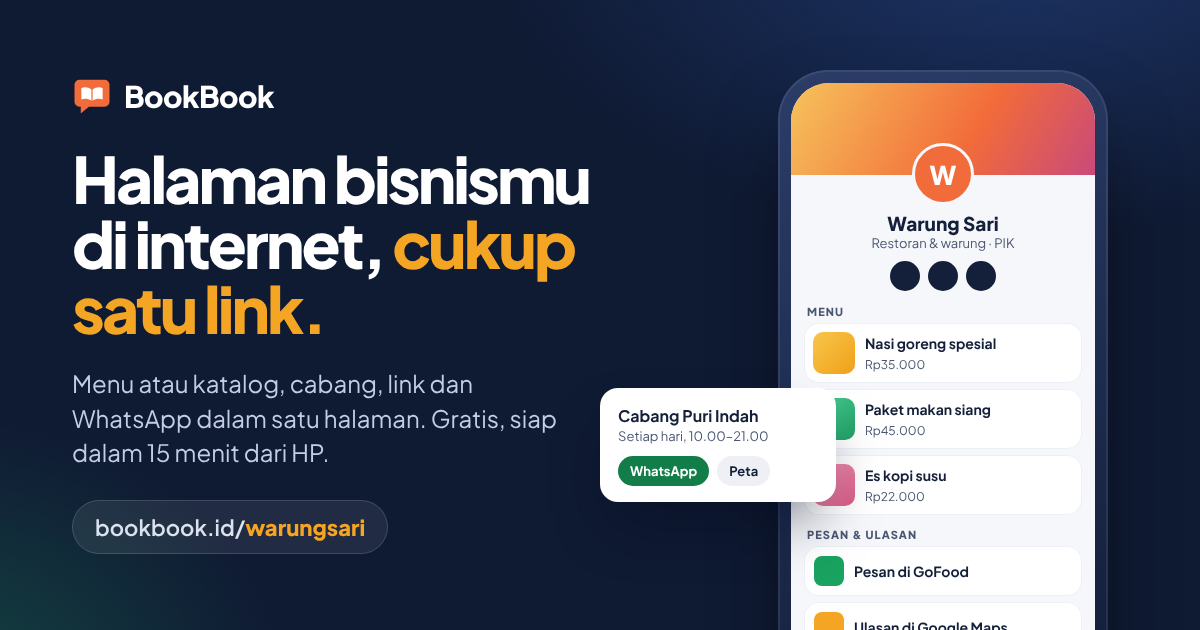
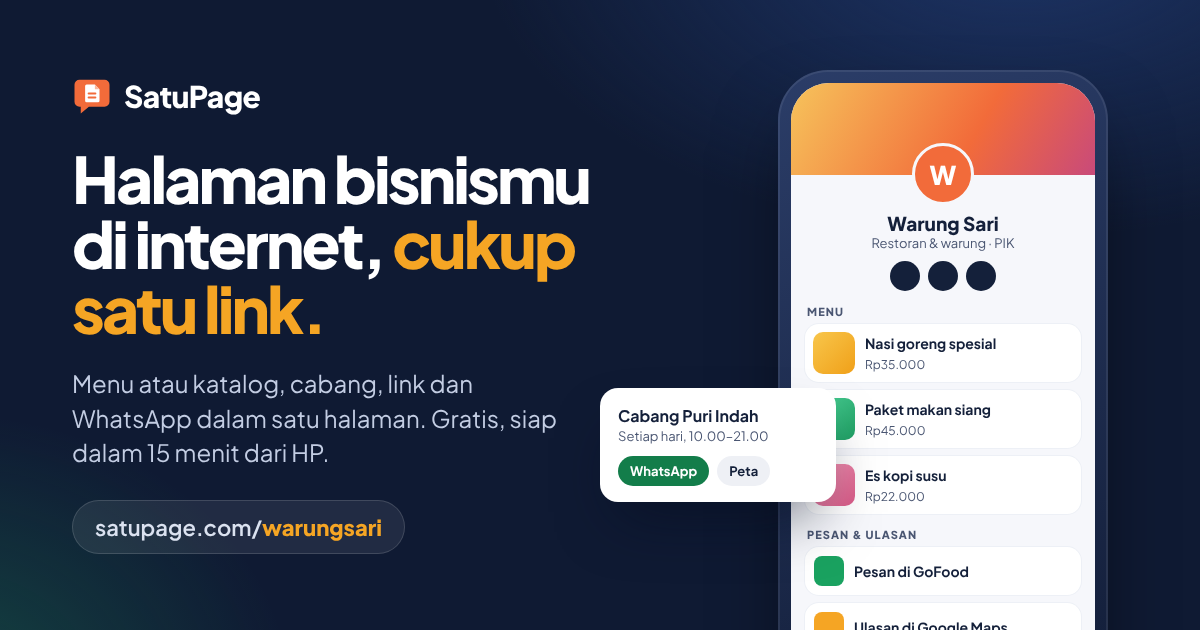
Rebrand BookBook to SatuPage on satupage.com
Brand name and product domain are now final (Q-04): SatuPage,
satupage.com and app.satupage.com. The site moves from tenyom.com to
satupage.com (CNAME, siteUrl). Drops the "nama kerja" notes, fills the
[DOMAIN] placeholders in the legal drafts, replaces the book logo with a
single-page mark and regenerates the social preview image.

Claude-Session: https://claude.ai/code/session_01D5kJDTb8WWUFXcoHcXBVbP

Changed region(s): [[0.0617, 0.8143, 0.3392, 0.8746], [0.0617, 0.1206, 0.2467, 0.181]]

diff --git a/src/partials/icons.html b/src/partials/icons.html
@@ -1,6 +1,6 @@
 <svg width="0" height="0" style="position:absolute" aria-hidden="true" focusable="false">
   <defs>
-    <symbol id="i-logo" viewBox="0 0 32 32"><path d="M6 3h20a4 4 0 0 1 4 4v13.5a4 4 0 0 1-4 4H13.5L7 30v-5.5H6a4 4 0 0 1-4-4V7a4 4 0 0 1 4-4z" fill="#F26B3A"/><path d="M7.5 9.6c2.8-1 5.6-.6 8 1.1v9.1c-2.4-1.6-5.2-2-8-1.1zM24.5 9.6c-2.8-1-5.6-.6-8 1.1v9.1c2.4-1.6 5.2-2 8-1.1z" fill="#fff"/></symbol>
+    <symbol id="i-logo" viewBox="0 0 32 32"><path d="M6 3h20a4 4 0 0 1 4 4v13.5a4 4 0 0 1-4 4H13.5L7 30v-5.5H6a4 4 0 0 1-4-4V7a4 4 0 0 1 4-4z" fill="#F26B3A"/><path d="M10.5 8a1.2 1.2 0 0 1 1.2-1.2h6.6l3.7 3.7v9.3a1.2 1.2 0 0 1-1.2 1.2h-9.1a1.2 1.2 0 0 1-1.2-1.2z" fill="#fff"/><path d="M18.3 6.8v3.7H22z" fill="#F9B79E"/><path d="M13.3 14h5.4M13.3 17.2h5.4" stroke="#F26B3A" stroke-width="1.6" stroke-linecap="round"/></symbol>
     <symbol id="i-arrow" viewBox="0 0 24 24"><path d="M5 12h14m-6-6 6 6-6 6" fill="none" stroke="currentColor" stroke-width="2.2" stroke-linecap="round" stroke-linejoin="round"/></symbol>
     <symbol id="i-check" viewBox="0 0 24 24"><path d="m5.5 12.5 4 4 9-9.5" fill="none" stroke="currentColor" stroke-width="2.6" stroke-linecap="round" stroke-linejoin="round"/></symbol>
     <symbol id="i-wa" viewBox="0 0 24 24"><path fill="currentColor" fill-rule="evenodd" d="M12 2a10 10 0 0 0-8.6 15.1L2 22l5-1.3A10 10 0 1 0 12 2zm-3.3 5.2c.3 0 .6 0 .8.5l.9 2c.1.3 0 .5-.1.7l-.6.7c-.2.2-.2.4 0 .7.5.8 1.1 1.5 1.8 2.1.6.5 1.3.9 2 1.2.3.1.5.1.7-.1l.8-1c.2-.3.5-.3.8-.2l1.9.9c.3.2.5.3.5.5.1.4-.1 1.3-.6 1.8-.5.5-1.4.9-2.3.8-1.6-.2-3.4-1.1-4.8-2.4-1.5-1.4-2.6-3.2-2.8-4.7-.1-.9.2-1.8.8-2.4.3-.3.7-.4 1-.4z"/></symbol>

diff --git a/src/og.html b/src/og.html
@@ -44,7 +44,7 @@
 <body>
   <div class="copy">
     <div class="brand">
-      <svg viewBox="0 0 32 32"><path d="M6 3h20a4 4 0 0 1 4 4v13.5a4 4 0 0 1-4 4H13.5L7 30v-5.5H6a4 4 0 0 1-4-4V7a4 4 0 0 1 4-4z" fill="#F26B3A"/><path d="M7.5 9.6c2.8-1 5.6-.6 8 1.1v9.1c-2.4-1.6-5.2-2-8-1.1zM24.5 9.6c-2.8-1-5.6-.6-8 1.1v9.1c2.4-1.6 5.2-2 8-1.1z" fill="#fff"/></svg>
+      <svg viewBox="0 0 32 32"><path d="M6 3h20a4 4 0 0 1 4 4v13.5a4 4 0 0 1-4 4H13.5L7 30v-5.5H6a4 4 0 0 1-4-4V7a4 4 0 0 1 4-4z" fill="#F26B3A"/><path d="M10.5 8a1.2 1.2 0 0 1 1.2-1.2h6.6l3.7 3.7v9.3a1.2 1.2 0 0 1-1.2 1.2h-9.1a1.2 1.2 0 0 1-1.2-1.2z" fill="#fff"/><path d="M18.3 6.8v3.7H22z" fill="#F9B79E"/><path d="M13.3 14h5.4M13.3 17.2h5.4" stroke="#F26B3A" stroke-width="1.6" stroke-linecap="round"/></svg>
       {{ brandName }}
     </div>
     <h1>Halaman bisnismu di internet, <span>cukup satu link.</span></h1>

diff --git a/src/partials/footer.html b/src/partials/footer.html
@@ -14,6 +14,6 @@
       <a href="{{ wa.contact }}">Hubungi kami</a>
       {{#if hasSupportEmail}}<a href="mailto:{{ supportEmail }}">{{ supportEmail }}</a>{{/if}}
     </nav>
-    <p class="footer__copy">© {{ copyrightYear }} {{ brandName }} · nama kerja · prototipe untuk riset</p>
+    <p class="footer__copy">© {{ copyrightYear }} {{ brandName }} · prototipe untuk riset</p>
   </div>
 </footer>

diff --git a/assets/css/styles.css b/assets/css/styles.css
@@ -1,5 +1,5 @@
 /* =========================================================
-   BookBook marketing site: shared styles, landing page, legal pages.
+   SatuPage marketing site: shared styles, landing page, legal pages.
    Plain CSS, mobile-first (from 360 px). Design tokens first.
    Demo pages add assets/css/demo.css.
    ========================================================= */

diff --git a/assets/js/site.js b/assets/js/site.js
@@ -1,4 +1,4 @@
-/* BookBook marketing site: shared behaviour for every page.
+/* SatuPage marketing site: shared behaviour for every page.
    - Pro price switch for interviews: ?harga=49 or ?harga=99 (kept for the tab)
    - Monthly / annual toggle on the Pro card
    - Bottom sheets ("uji coba" and the demo sheets), toast

diff --git a/content/legal/kebijakan-konten.md b/content/legal/kebijakan-konten.md
@@ -1,4 +1,4 @@
-# Kebijakan Konten dan Tautan BookBook
+# Kebijakan Konten dan Tautan SatuPage
 
 > **DRAF v0.1 · 18 November 2026 · belum berlaku.** Draf ini disusun untuk ditinjau penasihat hukum (sesi 31 Januari 2027) dan bukan nasihat hukum. Teks dalam tanda kurung siku, misalnya [EMAIL ADUAN], wajib diisi sebelum diterbitkan.
 
@@ -6,7 +6,7 @@
 
 ## Ringkasan
 
-- BookBook adalah halaman usaha untuk **usaha nyata yang menjual barang atau jasa yang legal**.
+- SatuPage adalah halaman usaha untuk **usaha nyata yang menjual barang atau jasa yang legal**.
 - **Tautan adalah konten.** Anda bertanggung jawab atas semua tujuan tautan di halaman Anda, termasuk ke mana tautan itu mengarah dan apa isinya nanti.
 - Ada **tiga tingkat aturan**: **nol toleransi** (akun langsung ditutup), **dilarang** (konten disembunyikan dan Anda mendapat peringatan), dan **dibatasi** (boleh dengan syarat).
 - **Judi online, penipuan, file APK, narkoba, senjata, dan konten seksual anak tidak pernah boleh**, dalam bentuk apa pun.
@@ -14,7 +14,7 @@
 
 ## 1. Ruang lingkup
 
-1.1. Kebijakan ini adalah bagian dari [Syarat Layanan](/syarat-layanan) dan berlaku untuk semua yang Anda tampilkan atau tautkan melalui BookBook ("**Konten**"), yaitu:
+1.1. Kebijakan ini adalah bagian dari [Syarat Layanan](/syarat-layanan) dan berlaku untuk semua yang Anda tampilkan atau tautkan melalui SatuPage ("**Konten**"), yaitu:
 
 - nama usaha, alamat halaman (slug), kategori, deskripsi, jam buka, dan alamat;
 - logo, foto sampul, foto produk, dan gambar kartu tautan;
@@ -22,21 +22,21 @@
 - label dan **tujuan setiap tautan** dan ikon media sosial, termasuk halaman yang dituju, halaman lanjutan tempat tautan itu dialihkan, dan file yang dapat diunduh dari sana;
 - kode kampanye, kode referal, dan isi pesan WhatsApp yang dibuat dari halaman Anda.
 
-1.2. Kebijakan ini berlaku di samping peraturan perundang-undangan Indonesia, antara lain UU Informasi dan Transaksi Elektronik beserta perubahannya, UU Perlindungan Konsumen, UU Pelindungan Data Pribadi, UU Pornografi, UU Narkotika, UU Kesehatan beserta peraturan pelaksananya, dan UU Jaminan Produk Halal. Jika suatu hal dilarang oleh hukum, hal itu juga dilarang di BookBook walaupun tidak disebut di sini.
+1.2. Kebijakan ini berlaku di samping peraturan perundang-undangan Indonesia, antara lain UU Informasi dan Transaksi Elektronik beserta perubahannya, UU Perlindungan Konsumen, UU Pelindungan Data Pribadi, UU Pornografi, UU Narkotika, UU Kesehatan beserta peraturan pelaksananya, dan UU Jaminan Produk Halal. Jika suatu hal dilarang oleh hukum, hal itu juga dilarang di SatuPage walaupun tidak disebut di sini.
 
 ## 2. Prinsip dasar
 
-1. **Usaha nyata dan legal.** Halaman BookBook mewakili usaha yang benar-benar ada dan menjual barang atau jasa yang boleh diperjualbelikan di Indonesia. Usaha perorangan dan rumahan sangat kami sambut.
+1. **Usaha nyata dan legal.** Halaman SatuPage mewakili usaha yang benar-benar ada dan menjual barang atau jasa yang boleh diperjualbelikan di Indonesia. Usaha perorangan dan rumahan sangat kami sambut.
 2. **Tautan adalah konten.** Menautkan ke sesuatu sama dengan menampilkannya di halaman Anda. Jika halaman tujuan berisi hal yang dilarang, tautan itu dilarang.
 3. **Jujur kepada pembeli.** Harga, isi produk, izin, dan klaim harus benar.
 4. **Hormati orang lain.** Jangan menampilkan data pribadi, foto, karya, atau merek orang lain tanpa hak.
 5. **Ragu? Tanyakan dulu.** Hubungi kami di [NOMOR WHATSAPP DUKUNGAN] sebelum menerbitkan sesuatu yang Anda ragukan.
 
-## 3. Siapa yang boleh memakai BookBook
+## 3. Siapa yang boleh memakai SatuPage
 
-3.1. BookBook diperuntukkan bagi usaha yang menjual barang atau jasa yang legal.
+3.1. SatuPage diperuntukkan bagi usaha yang menjual barang atau jasa yang legal.
 
-3.2. BookBook **tidak boleh** dipakai untuk:
+3.2. SatuPage **tidak boleh** dipakai untuk:
 
 - halaman pribadi yang bukan usaha, atau halaman penggemar;
 - kampanye politik, partai, atau calon dalam pemilihan;
@@ -68,7 +68,7 @@ Konten di bawah ini akan **disembunyikan atau halaman ditahan untuk ditinjau**, 
 | Kategori | Termasuk, antara lain |
 |---|---|
 | **Konten seksual dan produk dewasa** | Pornografi, ketelanjangan, konten seksual eksplisit, alat bantu seks, obat kuat tanpa izin edar |
-| **Rokok, vape, dan alkohol** | Rokok, cerutu, tembakau, rokok elektronik (vape, pod) dan cairannya, minuman beralkohol termasuk buatan rumah (ciu, tuak, arak). BookBook tidak memiliki verifikasi usia, sehingga produk ini tidak dapat dijual melalui BookBook |
+| **Rokok, vape, dan alkohol** | Rokok, cerutu, tembakau, rokok elektronik (vape, pod) dan cairannya, minuman beralkohol termasuk buatan rumah (ciu, tuak, arak). SatuPage tidak memiliki verifikasi usia, sehingga produk ini tidak dapat dijual melalui SatuPage |
 | **Obat, kosmetik, jamu, dan suplemen tanpa izin** | Produk tanpa nomor izin edar BPOM, krim racikan, pemutih instan, produk yang mengklaim menyembuhkan penyakit |
 | **Barang palsu dan bajakan** | Barang tiruan merek ("KW", "replika", "mirror"), film, musik, perangkat lunak, *e-book* bajakan, berbagi akun langganan berbayar |
 | **Barang lain yang dilarang** | Barang hasil kejahatan; barang yang dilarang diedarkan atau diimpor menurut peraturan, termasuk **pakaian bekas impor** ("bal", "ball press", "bal impor"); dan barang yang memerlukan izin khusus yang tidak Anda miliki |
@@ -88,7 +88,7 @@ Konten di bawah ini akan **disembunyikan atau halaman ditahan untuk ditinjau**, 
 | **Pre-order dan jasa titip (jastip)** | Jelaskan perkiraan waktu, uang muka (DP), dan kebijakan pembatalan. Jastip dari luar negeri wajib mematuhi ketentuan kepabeanan |
 | **Barang bekas (*preloved*)** | Barang bekas milik sendiri atau yang diperoleh di dalam negeri. Jelaskan kondisi barang dengan jujur. Pakaian bekas impor tidak boleh dijual (Tingkat 2) |
 | **Jasa** (rias, jahit, katering, les, servis) | Boleh, jika jasa itu legal dan Anda memiliki izin yang diwajibkan |
-| **Produk digital** (*e-book*, kelas, templat) | Hanya karya milik Anda sendiri atau yang Anda berhak jual. BookBook tidak menyimpan file untuk diunduh |
+| **Produk digital** (*e-book*, kelas, templat) | Hanya karya milik Anda sendiri atau yang Anda berhak jual. SatuPage tidak menyimpan file untuk diunduh |
 | **Giveaway dan promo** | Syarat ditulis jelas. Tidak memungut biaya untuk ikut dan tidak meminta data sensitif (KTP, OTP, PIN, data kartu) |
 
 Kami dapat meminta bukti izin atau sertifikat. Jika bukti tidak diberikan dalam 7 hari, produk yang bersangkutan dapat disembunyikan.
@@ -150,7 +150,7 @@ Kami dapat meminta bukti izin atau sertifikat. Jika bukti tidak diberikan dalam 
 
 ## 11. Melaporkan halaman
 
-11.1. Setiap halaman BookBook memiliki tombol **"Laporkan"**. Laporan bersifat anonim. Email hanya diminta untuk aduan hak cipta, merek, atau data pribadi agar kami dapat menindaklanjutinya.
+11.1. Setiap halaman SatuPage memiliki tombol **"Laporkan"**. Laporan bersifat anonim. Email hanya diminta untuk aduan hak cipta, merek, atau data pribadi agar kami dapat menindaklanjutinya.
 
 11.2. **Aduan hak cipta, merek, atau peniruan identitas** dapat dikirim ke [EMAIL ADUAN] dengan menyertakan: alamat halaman, konten yang dipersoalkan, bukti hak Anda, dan kontak Anda. Kami dapat menyembunyikan konten selama aduan diperiksa dan memberi kesempatan kepada penjual untuk menanggapi.
 

diff --git a/content/legal/syarat-layanan.md b/content/legal/syarat-layanan.md
@@ -1,6 +1,6 @@
-# Syarat Layanan BookBook
+# Syarat Layanan SatuPage
 
-> **DRAF v0.1 · 18 November 2026 · belum berlaku.** Draf ini disusun untuk ditinjau penasihat hukum (sesi 31 Januari 2027) dan bukan nasihat hukum. Teks dalam tanda kurung siku, misalnya [NIB], wajib diisi sebelum diterbitkan. "BookBook" adalah nama kerja; ganti dengan nama akhir (Q-04).
+> **DRAF v0.1 · 18 November 2026 · belum berlaku.** Draf ini disusun untuk ditinjau penasihat hukum (sesi 31 Januari 2027) dan bukan nasihat hukum. Teks dalam tanda kurung siku, misalnya [NIB], wajib diisi sebelum diterbitkan.
 
 **Berlaku sejak:** [TANGGAL BERLAKU] · **Versi:** [VERSI]
 
@@ -10,9 +10,9 @@ Ringkasan ini membantu Anda memahami isi Syarat Layanan, tetapi tidak menggantik
 
 | | |
 |---|---|
-| **Siapa kami** | BookBook dijalankan oleh [NAMA LENGKAP PENYEDIA], usaha perorangan dengan NIB [NIB]. |
+| **Siapa kami** | SatuPage dijalankan oleh [NAMA LENGKAP PENYEDIA], usaha perorangan dengan NIB [NIB]. |
 | **Untuk siapa** | Pemilik usaha berusia 21 tahun ke atas atau sudah menikah, atau berusia 18–20 tahun dengan izin orang tua atau wali, yang menjual barang atau jasa yang legal. |
-| **Apa yang kami sediakan** | Halaman usaha dengan menu atau katalog, cabang, tautan, dan tombol WhatsApp. Paket Pro menambahkan tampilan dengan merek Anda sendiri tanpa lencana BookBook, menu, tautan, dan cabang tanpa batas, serta statistik yang lebih panjang. |
+| **Apa yang kami sediakan** | Halaman usaha dengan menu atau katalog, cabang, tautan, dan tombol WhatsApp. Paket Pro menambahkan tampilan dengan merek Anda sendiri tanpa lencana SatuPage, menu, tautan, dan cabang tanpa batas, serta statistik yang lebih panjang. |
 | **Apa yang tidak kami lakukan** | Kami **tidak** menjadi pihak dalam jual beli antara Anda dan pembeli, **tidak** menerima uang pembeli, dan **tidak** mengambil komisi dari penjualan Anda. |
 | **Konten Anda** | Tetap milik Anda. Anda bertanggung jawab atas isi halaman **dan semua tautannya**. Aturannya ada di [Kebijakan Konten dan Tautan](/kebijakan-konten). |
 | **Pembayaran Pro** | Dibayar di muka, tanpa potong otomatis. Jika tidak diperpanjang, akun kembali ke paket Gratis dan data Anda tetap aman. |
@@ -20,7 +20,7 @@ Ringkasan ini membantu Anda memahami isi Syarat Layanan, tetapi tidak menggantik
 
 ## 1. Tentang kami dan perjanjian ini
 
-1.1. Layanan BookBook ("**Layanan**") disediakan oleh **[NAMA LENGKAP PENYEDIA]**, usaha perorangan dengan Nomor Induk Berusaha **[NIB]**, beralamat di **[ALAMAT USAHA]**, terdaftar sebagai Penyelenggara Sistem Elektronik Lingkup Privat dengan nomor **[NOMOR TANDA DAFTAR PSE]** ("**kami**").
+1.1. Layanan SatuPage ("**Layanan**") disediakan oleh **[NAMA LENGKAP PENYEDIA]**, usaha perorangan dengan Nomor Induk Berusaha **[NIB]**, beralamat di **[ALAMAT USAHA]**, terdaftar sebagai Penyelenggara Sistem Elektronik Lingkup Privat dengan nomor **[NOMOR TANDA DAFTAR PSE]** ("**kami**").
 
 1.2. Syarat Layanan ini adalah perjanjian antara kami dan Anda sebagai pengguna yang membuat akun ("**Anda**" atau "**Penjual**"). Dengan mencentang kotak persetujuan saat mendaftar, atau dengan menggunakan Layanan, Anda menyetujui:
 
@@ -34,7 +34,7 @@ Ringkasan ini membantu Anda memahami isi Syarat Layanan, tetapi tidak menggantik
 
 | Istilah | Arti |
 |---|---|
-| **Halaman** | Halaman publik Anda di [DOMAIN]/alamat-anda, termasuk katalog, tautan, dan ikon media sosial. |
+| **Halaman** | Halaman publik Anda di satupage.com/alamat-anda, termasuk katalog, tautan, dan ikon media sosial. |
 | **Alamat Halaman** (*slug*) | Bagian alamat setelah domain, misalnya `kueburina`. |
 | **Konten** | Semua teks, gambar, harga, tautan, dan data lain yang Anda masukkan atau tampilkan melalui Layanan, termasuk tujuan setiap tautan. |
 | **Pembeli** atau **Pengunjung** | Orang yang membuka Halaman Anda atau memesan dari Anda. |
@@ -140,9 +140,9 @@ Statistik dan Insights adalah hitungan anonim (misalnya jumlah kunjungan dan kli
 
 ## 11. Hak kekayaan intelektual kami
 
-11.1. Nama, logo, desain, kode, dan perangkat lunak BookBook adalah milik kami atau pemberi lisensi kami. Anda tidak memperoleh hak atasnya selain hak menggunakan Layanan menurut perjanjian ini.
+11.1. Nama, logo, desain, kode, dan perangkat lunak SatuPage adalah milik kami atau pemberi lisensi kami. Anda tidak memperoleh hak atasnya selain hak menggunakan Layanan menurut perjanjian ini.
 
-11.2. Pada Paket Gratis, lencana "Dibuat dengan BookBook" ditampilkan di Halaman Anda dan tidak boleh disembunyikan atau diubah.
+11.2. Pada Paket Gratis, lencana "Dibuat dengan SatuPage" ditampilkan di Halaman Anda dan tidak boleh disembunyikan atau diubah.
 
 ## 12. Hal yang tidak boleh dilakukan terhadap Layanan
 

diff --git a/README.md b/README.md
@@ -1,6 +1,6 @@
-# BookBook marketing site and interview demo
+# SatuPage marketing site and interview demo
 
-Marketing one-pager, legal drafts and clickable mockups for **BookBook** (working name, D-22): **"Halaman bisnismu di internet, cukup satu link."** A phone-first business page for Indonesian small businesses, led by food and drink businesses with a shop (cafés, restaurants, warung, bakeries), with home food sellers as the secondary segment.
+Marketing one-pager, legal drafts and clickable mockups for **SatuPage** (satupage.com): **"Halaman bisnismu di internet, cukup satu link."** A phone-first business page for Indonesian small businesses, led by food and drink businesses with a shop (cafés, restaurants, warung, bakeries), with home food sellers as the secondary segment.
 
 Built from the requirement documents (`2027-project-requirement-documents`, 20 Nov 2026, commit `b58a8c4`, decisions up to **D-78**). Where the previous version of this site (the 19 Nov export) disagrees with them, the requirement documents win. The main changes since that export:
 
@@ -50,8 +50,8 @@ All brand, domain, price and contact values are in this one file. Edit it and re
 
 | Key | Default | Status |
 | --- | --- | --- |
-| `brandName`, `domain` | BookBook, bookbook.id | Open (Q-04, due 15 Feb 2027) |
-| `appDomain` | app.bookbook.id | D-70. Not linked in the demo: "Masuk" opens the "uji coba" sheet |
+| `brandName`, `domain` | SatuPage, satupage.com | Decided (Q-04) |
+| `appDomain` | app.satupage.com | D-70. Not linked in the demo: "Masuk" opens the "uji coba" sheet |
 | `founderWhatsApp` | set | Used by "Hubungi kami", the "uji coba" sheet and both offer buttons. Empty opens WhatsApp's "choose a chat" screen with the message filled in |
 | `supportEmail` | empty = `[EMAIL DUKUNGAN]` | Open. Shown in the footer once set |
 | `demoMerchantWhatsApp` | empty (falls back to `founderWhatsApp`) | Number the example page sends to ("Tanya via WhatsApp", branch contacts, reservation). Never a stranger's number |
@@ -61,7 +61,7 @@ All brand, domain, price and contact values are in this one file. Edit it and re
 | `conciergeOffer.*` | enabled, area "Jabodetabek" | D-71. Free concierge page, live only with the merchant's OK. Turn off once Gate 0 has enough pages (they must be live by 13 Dec 2026) |
 | `foundingOffer.*` | **off**, Rp149.000, 3 months, refund by 15 Feb 2027 | P-06, to confirm; no longer a Gate 0 criterion (D-71). Turned off by the founder on 20 Nov; `enabled: true` brings it back |
 | `dates.betaOpens` | 2027-02-15 | Shown in the "uji coba" sheet, the offers and the FAQ |
-| `siteUrl`, `basePath` | `https://tenyom.com`, `/` | Canonical URLs, Open Graph, sitemap |
+| `siteUrl`, `basePath` | `https://satupage.com`, `/` | Canonical URLs, Open Graph, sitemap |
 
 The "Mulai sebelum beta" section shows when either offer is on.
 The example page's data (menu, branches, links, stats, Insights) is in `src/data/warungsari.mjs`.
@@ -85,7 +85,7 @@ Then open http://localhost:8000. The output in `dist/` is ignored by git.
 
 ## Deploy to GitHub Pages
 
-`.github/workflows/pages.yml` builds the site and deploys `dist/` on every push to `main` (or by hand from the Actions tab). In **Settings → Pages → Build and deployment → Source**, choose **GitHub Actions**, and keep the custom domain (`CNAME`, `tenyom.com`).
+`.github/workflows/pages.yml` builds the site and deploys `dist/` on every push to `main` (or by hand from the Actions tab). In **Settings → Pages → Build and deployment → Source**, choose **GitHub Actions**, and keep the custom domain (`CNAME`, `satupage.com`).
 
 ## Social preview image
 

diff --git a/content/legal/kebijakan-privasi.md b/content/legal/kebijakan-privasi.md
@@ -1,4 +1,4 @@
-# Kebijakan Privasi BookBook
+# Kebijakan Privasi SatuPage
 
 > **DRAF v0.1 · 18 November 2026 · belum berlaku.** Draf ini disusun untuk ditinjau penasihat hukum (sesi 31 Januari 2027) dan bukan nasihat hukum. Teks dalam tanda kurung siku, misalnya [EMAIL PRIVASI], wajib diisi sebelum diterbitkan. Bagian yang bertanda ⚠ harus dicocokkan dengan pengaturan penyedia layanan yang sebenarnya.
 
@@ -16,11 +16,11 @@
 
 ## 1. Siapa kami
 
-1.1. Layanan BookBook dijalankan oleh **[NAMA LENGKAP PENYEDIA]**, usaha perorangan dengan NIB **[NIB]**, beralamat di **[ALAMAT USAHA]** ("**kami**").
+1.1. Layanan SatuPage dijalankan oleh **[NAMA LENGKAP PENYEDIA]**, usaha perorangan dengan NIB **[NIB]**, beralamat di **[ALAMAT USAHA]** ("**kami**").
 
 1.2. Kebijakan ini menjelaskan cara kami memproses data pribadi menurut UU No. 27 Tahun 2022 tentang Pelindungan Data Pribadi ("**UU PDP**") dan peraturan pelaksananya.
 
-1.3. Kebijakan ini berlaku untuk situs BookBook, dasbor penjual, dan semua Halaman toko di [DOMAIN].
+1.3. Kebijakan ini berlaku untuk situs SatuPage, dasbor penjual, dan semua Halaman toko di satupage.com.
 
 ## 2. Peran kami
 
